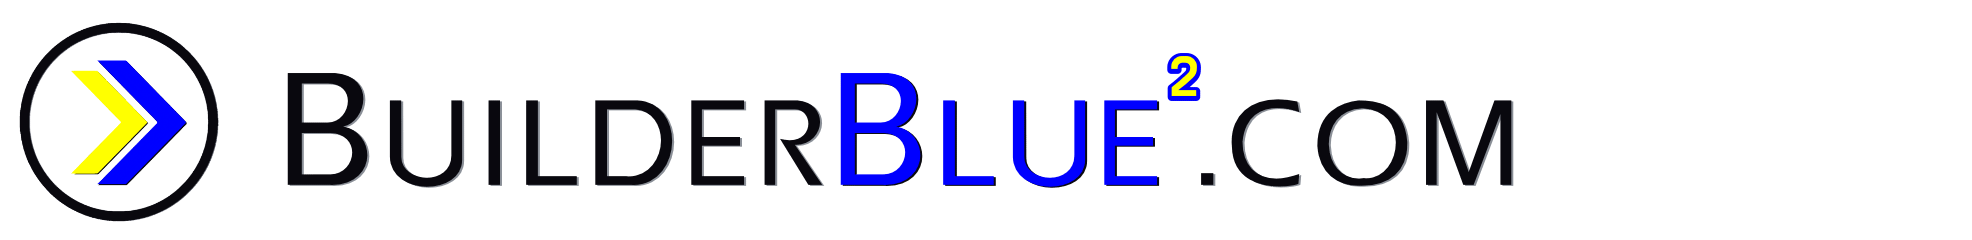
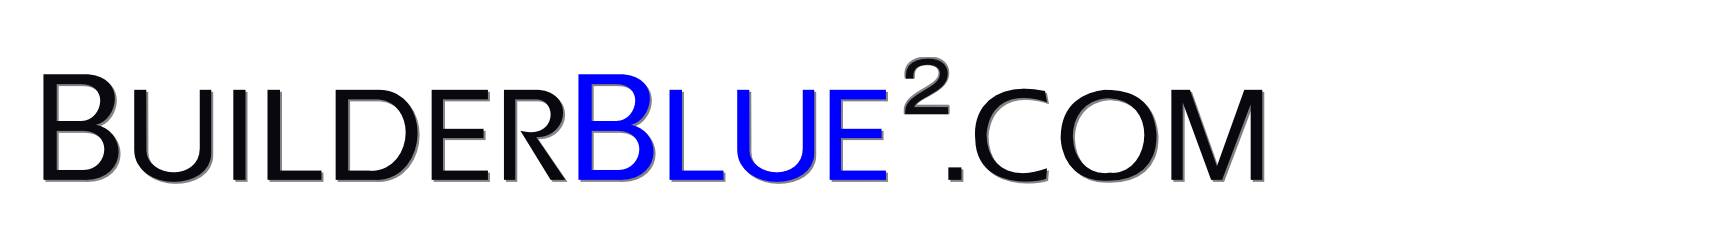
Correct font assignments sitewide, update all brand assets
Font rules (no exceptions):
- QTEraType (--font-heading): headers, titles, Architect output
- Source Code Pro (--font-label): buttons, pane labels, UI controls
- Google Sans Pro (--font-content): body/content text, Builder output

Assets:
- builderblue2_logo.png: hero (circle icon, no bg)
- builderblue2_text.png: heading text image
- builderblue2_url.png: nav branding (icon + text)
- builderblue2_favicon.png: browser tab (icon w/ white bg)

Changed region(s): [[0.0, 0.0875, 0.7708, 0.9333]]

diff --git a/client/src/pages/landing.tsx b/client/src/pages/landing.tsx
@@ -15,8 +15,8 @@ export default function Landing() {
           style={{ height: "120px" }}
         />
         <h1
-          className="flex flex-wrap items-center justify-center gap-4 text-5xl font-bold tracking-tight sm:text-6xl"
-          style={{ color: "var(--triad-black)", fontFamily: "var(--font-builder)" }}
+          className="flex flex-wrap items-center justify-center gap-4"
+          style={{ color: "var(--triad-black)", fontFamily: "var(--font-heading)", fontSize: "clamp(2rem, 5vw, 3.5rem)", fontWeight: "bold", letterSpacing: "-0.01em" }}
         >
           Start building with{" "}
           <img
@@ -27,7 +27,7 @@ export default function Landing() {
         </h1>
         <p
           className="mx-auto mt-6 max-w-2xl text-lg"
-          style={{ color: "var(--steel-blue)", opacity: 0.8, lineHeight: 1.7, fontFamily: "var(--font-builder)" }}
+          style={{ color: "var(--steel-blue)", opacity: 0.8, lineHeight: 1.7, fontFamily: "var(--font-content)" }}
         >
           The AI-powered IDE where Architect designs and Builder codes — side by side on a shared stage.
           Ship production apps with vibe coding that actually works.
@@ -42,7 +42,7 @@ export default function Landing() {
                 color: "var(--cream)",
                 border: "none",
                 cursor: "pointer",
-                fontFamily: "var(--font-builder)",
+                fontFamily: "var(--font-label)",
               }}
             >
               Start building free
@@ -56,7 +56,7 @@ export default function Landing() {
                 color: "var(--steel-blue)",
                 border: "1px solid var(--steel-blue)",
                 cursor: "pointer",
-                fontFamily: "var(--font-builder)",
+                fontFamily: "var(--font-label)",
               }}
             >
               Sign in
@@ -88,7 +88,7 @@ export default function Landing() {
                 style={{
                   color: "var(--triad-black)",
                   letterSpacing: "0.08em",
-                  fontFamily: "var(--font-architect)",
+                  fontFamily: "var(--font-label)",
                 }}
               >
                 Architect
@@ -97,7 +97,7 @@ export default function Landing() {
                 className="rounded-lg p-3 mb-2"
                 style={{
                   background: "var(--steel-blue)",
-                  fontFamily: "var(--font-architect)",
+                  fontFamily: "var(--font-heading)",
                   fontSize: "12px",
                   color: "var(--cream)",
                   borderRadius: "12px 12px 2px 12px",
@@ -109,7 +109,7 @@ export default function Landing() {
                 className="rounded-lg p-3"
                 style={{
                   background: "white",
-                  fontFamily: "var(--font-architect)",
+                  fontFamily: "var(--font-heading)",
                   fontSize: "12px",
                   color: "var(--triad-black)",
                   borderRadius: "12px 12px 12px 2px",
@@ -158,7 +158,7 @@ export default function Landing() {
                 style={{
                   color: "var(--cream)",
                   letterSpacing: "0.08em",
-                  fontFamily: "var(--font-runway)",
+                  fontFamily: "var(--font-label)",
                 }}
               >
                 Staging Runway
@@ -178,7 +178,7 @@ export default function Landing() {
                   </span>
                   <span
                     className="rounded px-1.5 py-0.5"
-                    style={{ fontFamily: "var(--font-runway)", fontSize: "9px", background: "var(--steel-blue)", color: "var(--cream)" }}
+                    style={{ fontFamily: "var(--font-label)", fontSize: "9px", background: "var(--steel-blue)", color: "var(--cream)" }}
                   >
                     builder
                   </span>
@@ -201,7 +201,7 @@ export default function Landing() {
                   <span style={{ fontFamily: "var(--font-runway)", fontSize: "11px", color: "var(--cream)" }}>
                     src/components/Hero.tsx
                   </span>
-                  <span style={{ fontFamily: "var(--font-runway)", fontSize: "9px", color: "#008060", textTransform: "uppercase" }}>
+                  <span style={{ fontFamily: "var(--font-label)", fontSize: "9px", color: "#008060", textTransform: "uppercase" }}>
                     approved
                   </span>
                 </div>
@@ -239,7 +239,7 @@ export default function Landing() {
                 style={{
                   color: "var(--triad-black)",
                   letterSpacing: "0.08em",
-                  fontFamily: "var(--font-builder)",
+                  fontFamily: "var(--font-label)",
                 }}
               >
                 Builder
@@ -248,7 +248,7 @@ export default function Landing() {
                 className="rounded-lg p-3 mb-2"
                 style={{
                   background: "white",
-                  fontFamily: "var(--font-builder)",
+                  fontFamily: "var(--font-content)",
                   fontSize: "12px",
                   color: "var(--triad-black)",
                   borderRadius: "12px 12px 12px 2px",
@@ -264,7 +264,7 @@ export default function Landing() {
                 </div>
                 <span
                   className="rounded px-1 py-0.5"
-                  style={{ fontSize: "9px", background: "var(--steel-blue)", color: "var(--cream)" }}
+                  style={{ fontSize: "9px", background: "var(--steel-blue)", color: "var(--cream)", fontFamily: "var(--font-label)" }}
                 >
                   Staged →
                 </span>
@@ -301,13 +301,13 @@ export default function Landing() {
               <div key={feature.title} className="rounded-lg p-6" style={{ border: "1px solid var(--steel-blue)" }}>
                 <h3
                   className="mb-2 text-base font-bold"
-                  style={{ color: "var(--triad-black)", fontFamily: "var(--font-builder)" }}
+                  style={{ color: "var(--triad-black)", fontFamily: "var(--font-heading)" }}
                 >
                   {feature.title}
                 </h3>
                 <p
                   className="text-sm"
-                  style={{ color: "var(--steel-blue)", opacity: 0.7, lineHeight: 1.6, fontFamily: "var(--font-builder)" }}
+                  style={{ color: "var(--steel-blue)", opacity: 0.7, lineHeight: 1.6, fontFamily: "var(--font-content)" }}
                 >
                   {feature.desc}
                 </p>
@@ -328,7 +328,7 @@ export default function Landing() {
           className="mx-auto mb-3"
           style={{ height: "20px", opacity: 0.5 }}
         />
-        <p style={{ fontFamily: "var(--font-builder)", fontSize: "12px", color: "var(--steel-blue)", opacity: 0.5 }}>
+        <p style={{ fontFamily: "var(--font-content)", fontSize: "12px", color: "var(--steel-blue)", opacity: 0.5 }}>
           A TRIADBLUE platform
         </p>
       </div>

diff --git a/client/src/components/layout/nav.tsx b/client/src/components/layout/nav.tsx
@@ -29,7 +29,7 @@ export function Nav() {
                 <Link
                   href="/dashboard"
                   className="text-sm transition-colors"
-                  style={{ color: "var(--triad-black)", opacity: 0.7, fontFamily: "var(--font-builder)" }}
+                  style={{ color: "var(--triad-black)", opacity: 0.7, fontFamily: "var(--font-label)" }}
                 >
                   Dashboard
                 </Link>
@@ -40,7 +40,7 @@ export function Nav() {
           <div className="flex items-center gap-3">
             {isAuthenticated ? (
               <>
-                <span className="text-sm" style={{ color: "var(--triad-black)", opacity: 0.5 }}>
+                <span className="text-sm" style={{ color: "var(--triad-black)", opacity: 0.5, fontFamily: "var(--font-content)" }}>
                   {user?.email}
                 </span>
                 <button
@@ -51,6 +51,7 @@ export function Nav() {
                     background: "transparent",
                     border: "1px solid var(--steel-blue)",
                     cursor: "pointer",
+                    fontFamily: "var(--font-label)",
                   }}
                 >
                   Log out
@@ -66,7 +67,7 @@ export function Nav() {
                       background: "transparent",
                       border: "none",
                       cursor: "pointer",
-                      fontFamily: "var(--font-builder)",
+                      fontFamily: "var(--font-label)",
                     }}
                   >
                     Log in
@@ -80,7 +81,7 @@ export function Nav() {
                       background: "var(--pure-blue)",
                       border: "none",
                       cursor: "pointer",
-                      fontFamily: "var(--font-builder)",
+                      fontFamily: "var(--font-label)",
                     }}
                   >
                     Get started

diff --git a/client/src/styles.css b/client/src/styles.css
@@ -1,7 +1,7 @@
 @import "tailwindcss";
 
 /* ─── Google Fonts ────────────────────────────────────────────────────────── */
-@import url('https://fonts.googleapis.com/css2?family=Source+Code+Pro:ital,wght@0,400;0,500;0,600;0,700;1,400&family=Source+Sans+3:ital,wght@0,400;0,500;0,600;0,700;1,400&display=swap');
+@import url('https://fonts.googleapis.com/css2?family=Source+Code+Pro:ital,wght@0,400;0,500;0,600;0,700;1,400&family=Google+Sans:wght@400;500;700&family=Product+Sans:wght@400;700&family=Source+Sans+3:ital,wght@0,400;0,500;0,600;0,700;1,400&display=swap');
 
 /* ─── QTEraType placeholder — replace @font-face src when real font arrives ─ */
 @font-face {
@@ -37,10 +37,16 @@
   --runway-border: rgba(233, 236, 240, 0.3);
   --card-border: rgba(233, 236, 240, 0.2);
 
-  /* Fonts */
+  /* Fonts — sitewide roles */
+  /* QTEraType: headers, titles, Architect output */
+  --font-heading: 'QTEraType', 'Georgia', serif;
   --font-architect: 'QTEraType', 'Georgia', serif;
+  /* Source Code Pro: buttons, labels (ARCHITECT/STAGING RUNWAY/BUILDER titles) */
+  --font-label: 'Source Code Pro', monospace;
   --font-runway: 'Source Code Pro', monospace;
-  --font-builder: 'Source Sans 3', 'Google Sans', sans-serif;
+  /* Google Sans Pro: body/content text, Builder output */
+  --font-content: 'Google Sans', 'Product Sans', 'Source Sans 3', sans-serif;
+  --font-builder: 'Google Sans', 'Product Sans', 'Source Sans 3', sans-serif;
 }
 
 /* ─── Global resets ──────────────────────────────────────────────────────── */

diff --git a/client/index.html b/client/index.html
@@ -4,7 +4,7 @@
     <meta charset="UTF-8" />
     <meta name="viewport" content="width=device-width, initial-scale=1.0" />
     <title>BuilderBlue²</title>
-    <link rel="icon" type="image/png" href="/builderblue2_logo.png" />
+    <link rel="icon" type="image/png" href="/builderblue2_favicon.png" />
   </head>
   <body>
     <div id="root"></div>

diff --git a/client/src/components/ide/ArchitectPane.tsx b/client/src/components/ide/ArchitectPane.tsx
@@ -78,7 +78,7 @@ export function ArchitectPane({
       >
         <span
           style={{
-            fontFamily: "var(--font-architect)",
+            fontFamily: "var(--font-label)",
             fontWeight: "bold",
             fontSize: "13px",
             color: "var(--triad-black)",

diff --git a/client/src/components/ide/BuilderPane.tsx b/client/src/components/ide/BuilderPane.tsx
@@ -128,7 +128,7 @@ export function BuilderPane({
       >
         <span
           style={{
-            fontFamily: "var(--font-builder)",
+            fontFamily: "var(--font-label)",
             fontWeight: 600,
             fontSize: "13px",
             color: "var(--triad-black)",
